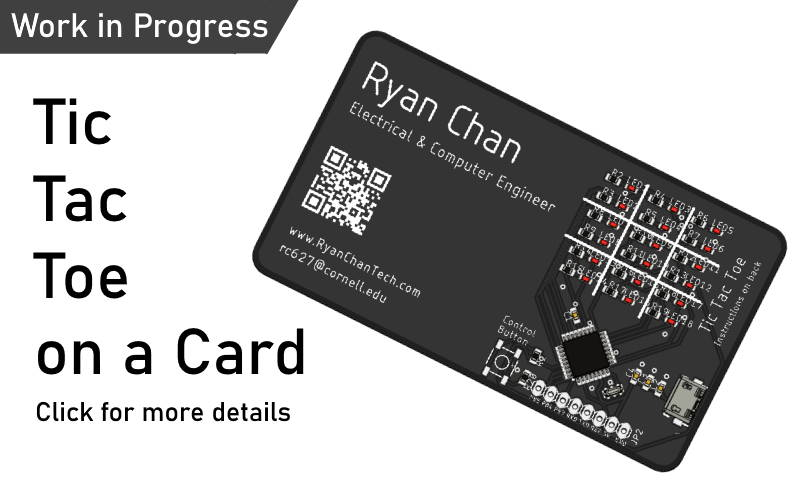
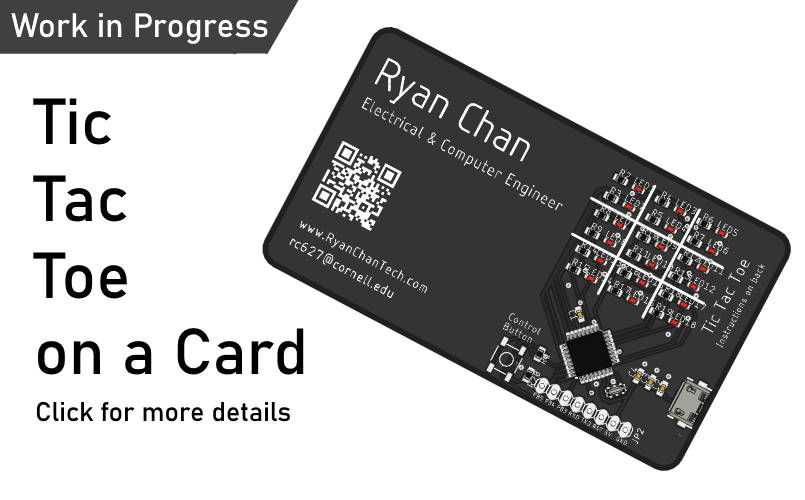
modified project pages

Changed region(s): [[0.3106, 0.03, 0.9938, 0.93], [0.5901, 0.15, 0.7764, 0.3], [0.8075, 0.93, 0.8385, 0.96]]

diff --git a/project_pages/card.html b/project_pages/card.html
@@ -13,7 +13,7 @@
   </script>
   <meta charset = "utf-8"/>
   <meta name="viewport" content="width=device-width, initial-scale=1.0">
-  <title>Blank Project</title>
+  <title>Business Card</title>
   <link rel="stylesheet" href="../styles.css">
   <link rel="preconnect" href="https://fonts.gstatic.com">
   <link href="https://fonts.googleapis.com/css2?family=Lato&display=swap" rel="stylesheet">
@@ -41,20 +41,21 @@
       <p>
         PCB business cards have always fascinated me, so I’ve decided to design my own card that plays tic-tac-toe for the upcoming application season.
         <br><br>
-        There are 18 LED lights on the board, where each position on the tic-tac-toe grid has 2 lights: a blue one to mark X and a red one to mark O.
+        There are 18 LED lights on the board, where each position on the tic-tac-toe grid has 2 lights: a blue one for player one and a red one for plater two.
         There is also a button that you use to place your mark on the tic-tac-toe board. Your current position is marked by a blinking LED and pressing the
         button quickly will move you to a new position. Once you’re at the desired position, you hold the button to place your mark and the turn moves
-        to the other player. An ATmega328P microcontroller is used to control all this logic.
+        to the other player. The first player to get three marks in a row wins. An ATmega328P microcontroller is used to control all this logic.
       </p>
 
       <div class = "picture">
-        <img src="../files/images/card_1.jpg" alt="Robot Pup Picture">
+        <img src="../files/images/card_2.jpg" alt="Robot Pup Picture">
       </div>
 
       <h3> Progress </h3>
 
       <p>
-        This project is still in progress. Currently, I've finished the PCB design and plan to place the PCB order soon. I am also currently writing the software.
+        This project is still in progress. I've finished the PCB design and it is currently being produced and assembled at a PCB manufacturer.
+         In the mean time, I am writing the software and working on the Robot Pup project.
       </p>
 
       <h3> Project Pages </h3>

diff --git a/project_pages/pup.html b/project_pages/pup.html
@@ -59,8 +59,7 @@
         that can supply enough power, so I currently have to tether the robot to a power supply.
       </p>
 
-      <h3> Video</h3>
-      <iframe width="560" height="315" src="https://www.youtube.com/embed/" frameborder="0" allow="accelerometer; autoplay; clipboard-write; encrypted-media; gyroscope; picture-in-picture" allowfullscreen></iframe>
+      <br><br>
 
     </div>
 

diff --git a/styles.css b/styles.css
@@ -93,7 +93,7 @@ p{
   }
 
   .picture img {
-    width: 80%;
+    width: 100%;
   }
 }
 
